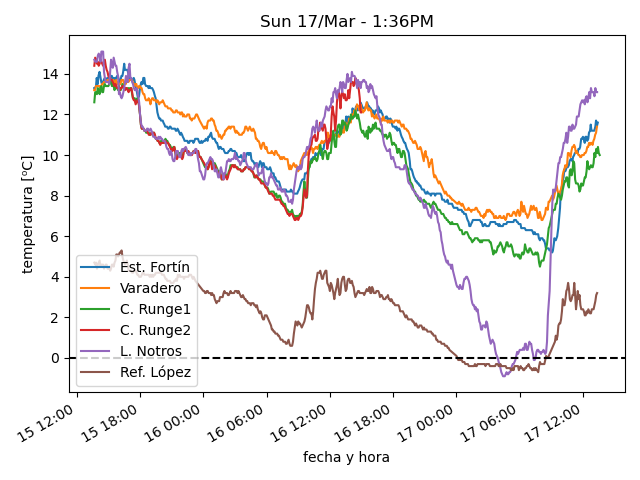
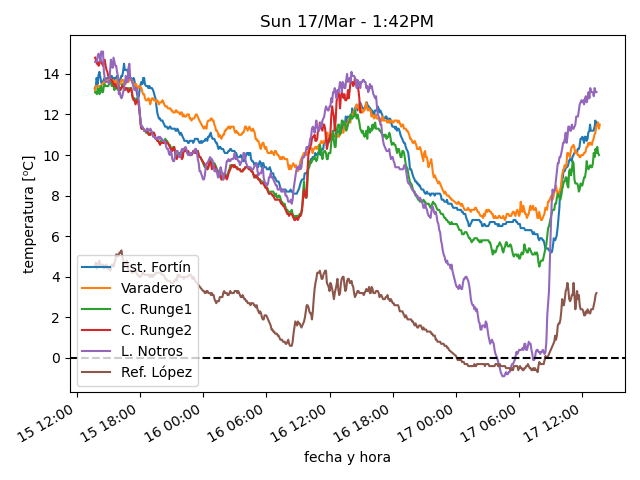
actualiza datos

diff --git a/estaciones/estacion2.html b/estaciones/estacion2.html
@@ -18,22 +18,22 @@
     </tr>
     <tr>
      <td class="stats_data">
-      1:19PM
+      1:39PM
      </td>
     </tr>
     <tr>
      <td class="stats_data">
-      11.4
+      11.5
      </td>
     </tr>
     <tr>
      <td class="stats_data">
-      6.3
+      6.2
      </td>
     </tr>
     <tr>
      <td class="stats_data">
-      71.1
+      70.1
      </td>
     </tr>
     <tr>
@@ -43,7 +43,7 @@
     </tr>
     <tr>
      <td class="stats_data">
-      28.1/34.2 NW
+      31.2/37.0 NW
      </td>
     </tr>
     <tr>
@@ -53,12 +53,12 @@
     </tr>
     <tr>
      <td class="stats_data">
-      8.0
+      6.0
      </td>
     </tr>
     <tr>
      <td class="stats_data">
-      923.5
+      626.4
      </td>
     </tr>
    </tbody>
